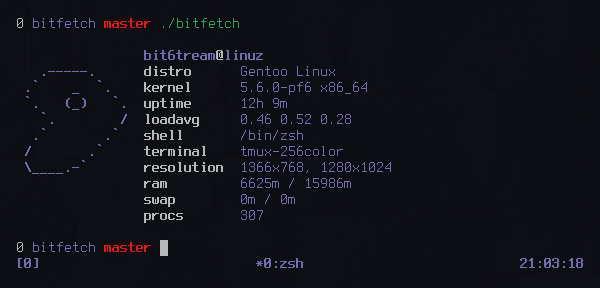
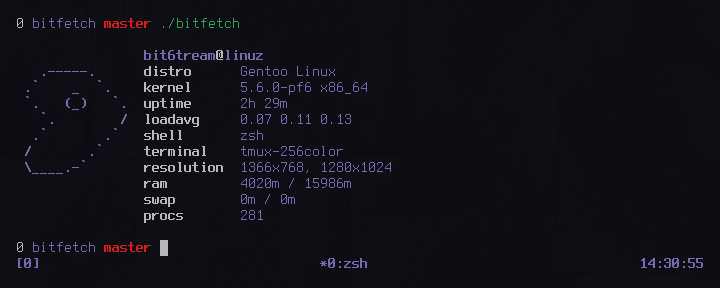
asd

diff --git a/bitfetch.c b/bitfetch.c
@@ -5,6 +5,7 @@
 #include <sys/utsname.h>
 #include <sys/sysinfo.h>
 #include <string.h>
+#include <libgen.h>
 
 #ifdef X
 #include <X11/Xlib.h>
@@ -101,7 +102,7 @@ int main(int argc, char *argv[])
             uinfo.release, uinfo.machine,
             sinfo.uptime / 3600, (sinfo.uptime / 60) - (sinfo.uptime / 3600 * 60),
             sinfo.loads[0] * (1.0 / (1 << SI_LOAD_SHIFT)), sinfo.loads[1] * (1.0 / (1 << SI_LOAD_SHIFT)), sinfo.loads[2] * (1.0 / (1 << SI_LOAD_SHIFT)),
-            pw -> pw_shell,
+            basename(pw -> pw_shell),
             getenv("TERM"),
 #ifdef X
 #ifdef XINERAMA
